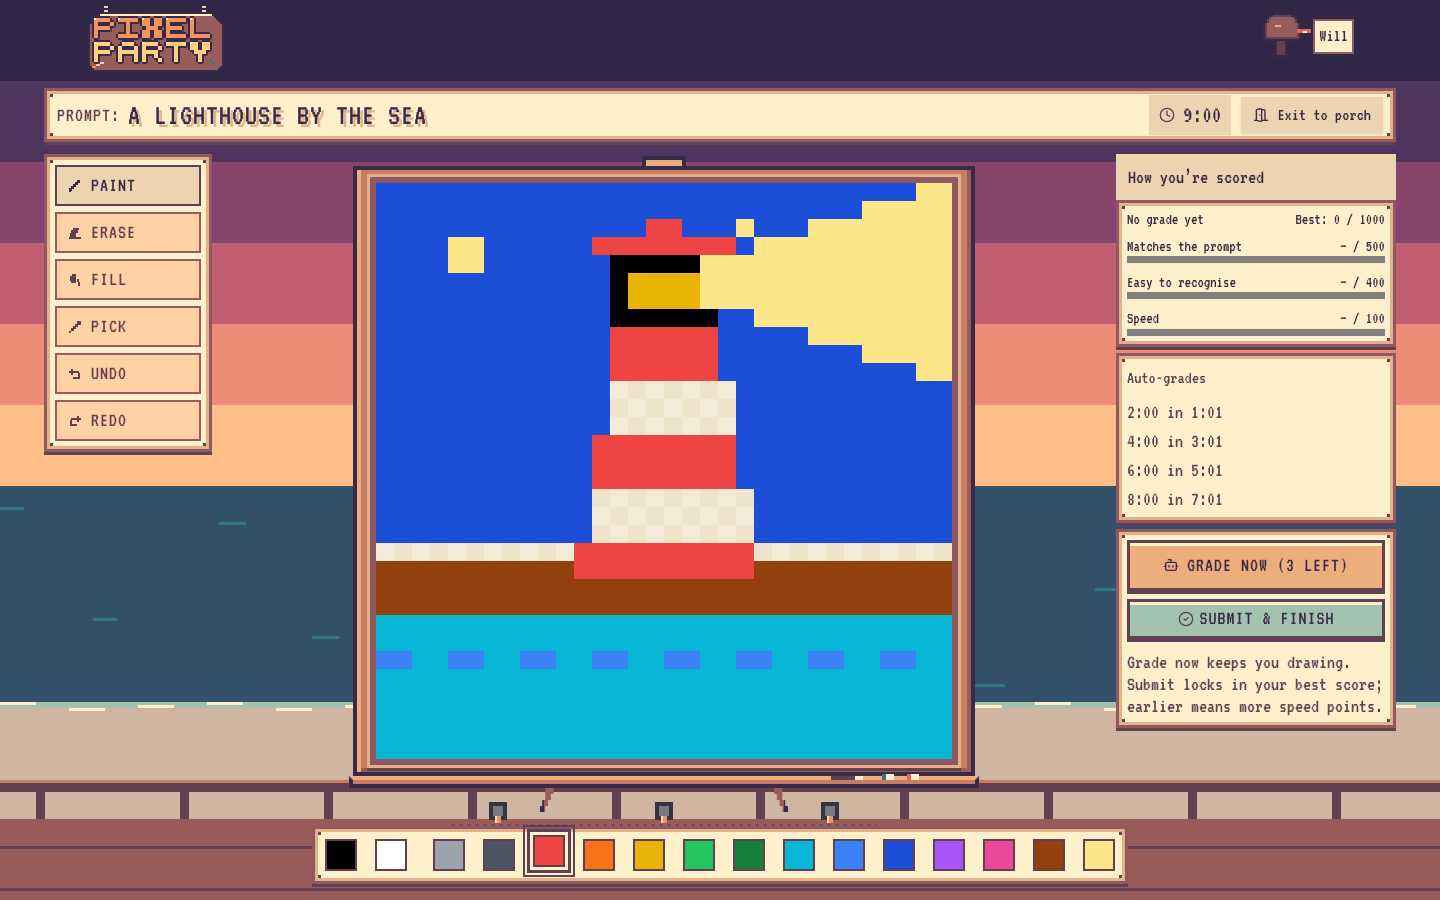
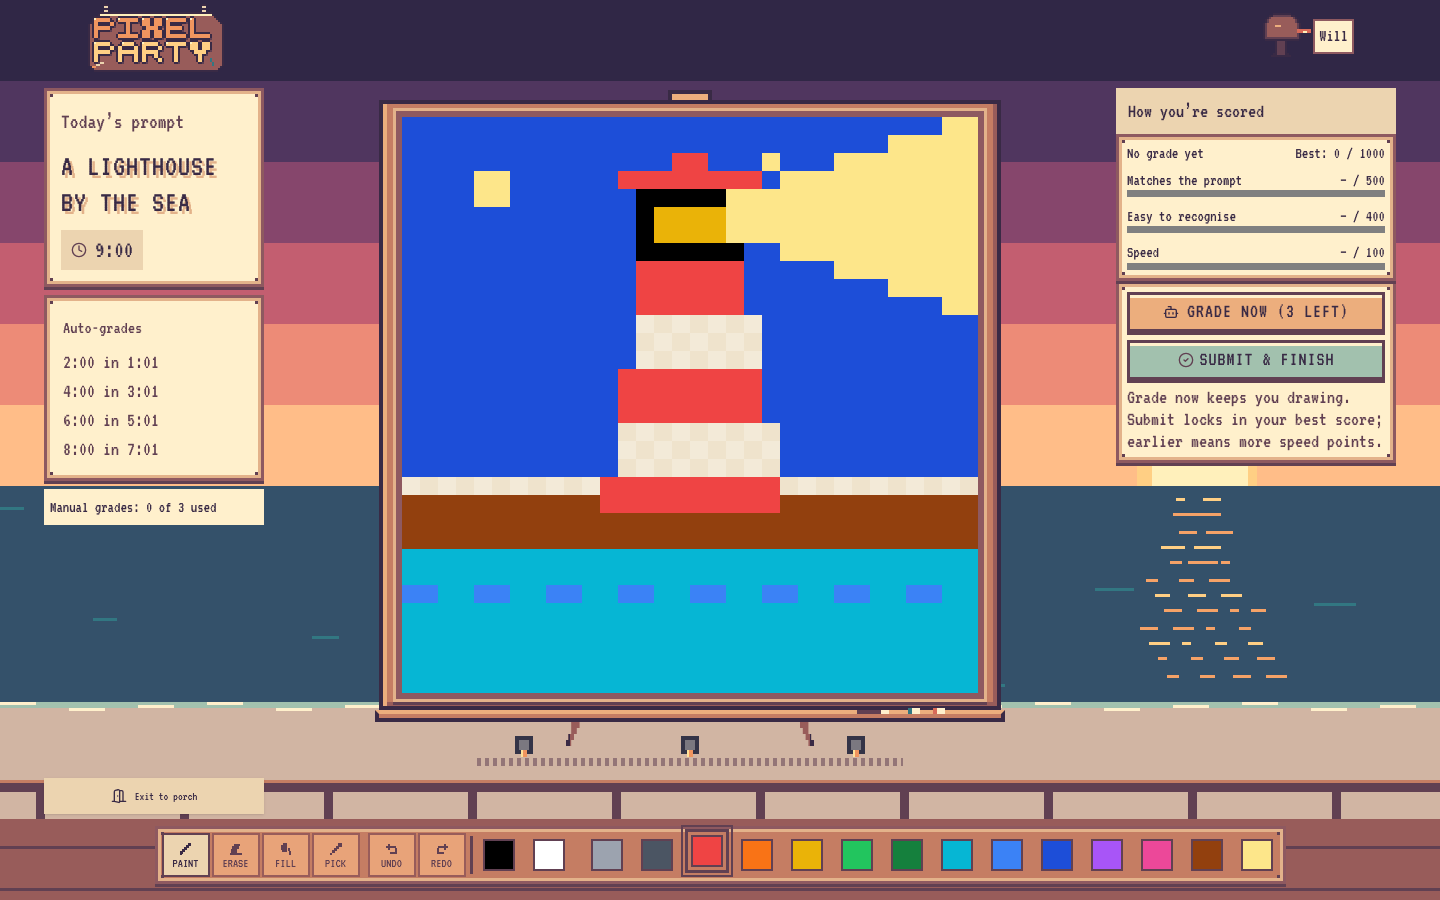
wip(play): share tray styles and capture layout

diff --git a/src/components/play/play.css b/src/components/play/play.css
@@ -20,15 +20,6 @@
 .play-layout__right .pp-panel p { line-height: 1.1; }
 .play-layout__right > summary { display: none; }
 .play-layout__bottom { position: relative; z-index: 2; grid-area: bottom; min-width: 0; }
-.painter-tray { display: flex; align-items: center; justify-content: center; width: fit-content; max-width: 100%; margin: auto; padding: 4px; background-color: #c57d63; }
-.painter-tray__divider { flex: none; width: 3px; height: 38px; margin: 0 4px; background: #614052; }
-.painter-tray [data-testid="toolbar"] { display: flex; flex-direction: row; align-items: center; gap: 2px; padding: 0; border: 0; box-shadow: none; background: transparent; }
-.painter-tray [data-testid="toolbar"] button { display: flex; flex-direction: column; justify-content: center; gap: 0; min-width: 48px; width: auto; min-height: 44px; padding: 2px; font-size: 13px; line-height: 1; letter-spacing: 0; }
-.painter-tray [data-testid="tool-undo"] { margin-left: 6px; }
-.play-layout__bottom [data-testid="palette"] button { width: 44px; height: 44px; padding: 6px; background: transparent !important; border: 0; }
-.play-layout__bottom [data-testid="palette"] button span[aria-hidden] { display: block; width: 100%; height: 100%; border: 2px solid #614052; background: var(--swatch); }
-.play-layout__bottom [data-testid="swatch-16"] { margin-right: 8px; }
-.painter-tray [data-testid="toolbar"] button:disabled { opacity: 1; color: #614052; }
 .play-actions { display: flex; flex-direction: column; gap: 8px; }
 .play-actions button { width: 100%; }
 .play-actions [data-testid="daily-done-button"] { background: #a2c1ae; }
@@ -58,10 +49,6 @@
   .play-layout__left { flex-direction: row; align-items: center; }
   .play-layout__left > [data-testid="daily-exit"] { margin-top: 0; }
   .play-prompt { flex: 1; }
-  .painter-tray { flex-direction: column; width: 100%; }
-  .painter-tray__divider { width: 90%; height: 2px; margin: 4px 0; }
-  .painter-tray [data-testid="toolbar"] { width: 100%; justify-content: center; }
-  .painter-tray [data-testid="toolbar"] button { flex: 1; min-width: 0; }
   .play-layout__mobile-actions { grid-area: actions; position: sticky; bottom: 0; z-index: 3; }
   .play-layout__mobile-actions .play-actions { flex-direction: row; }
   .play-layout__mobile-actions .play-actions button { flex: 1 1 0; min-width: 0; padding: 6px 4px; font-size: 14px; letter-spacing: 0; }

diff --git a/src/components/game/PainterTray.css b/src/components/game/PainterTray.css
@@ -1,0 +1,15 @@
+.painter-tray { display: flex; align-items: center; justify-content: center; width: fit-content; max-width: 100%; margin: auto; padding: 4px; background-color: #c57d63; }
+.painter-tray__divider { flex: none; width: 3px; height: 38px; margin: 0 4px; background: #614052; }
+.painter-tray [data-testid="toolbar"] { display: flex; flex-direction: row; align-items: center; gap: 2px; padding: 0; border: 0; box-shadow: none; background: transparent; }
+.painter-tray [data-testid="toolbar"] button { display: flex; flex-direction: column; justify-content: center; gap: 0; min-width: 48px; width: auto; min-height: 44px; padding: 2px; font-size: 13px; line-height: 1; letter-spacing: 0; }
+.painter-tray [data-testid="tool-undo"] { margin-left: 6px; }
+.painter-tray [data-testid="palette"] button { width: 44px; height: 44px; padding: 6px; background: transparent !important; border: 0; }
+.painter-tray [data-testid="palette"] button span[aria-hidden] { display: block; width: 100%; height: 100%; border: 2px solid #614052; background: var(--swatch); }
+.painter-tray [data-testid="swatch-16"] { margin-right: 8px; }
+.painter-tray [data-testid="toolbar"] button:disabled { opacity: 1; color: #614052; }
+@media (max-width: 767px) {
+  .painter-tray { flex-direction: column; width: 100%; }
+  .painter-tray__divider { width: 90%; height: 2px; margin: 4px 0; }
+  .painter-tray [data-testid="toolbar"] { width: 100%; justify-content: center; }
+  .painter-tray [data-testid="toolbar"] button { flex: 1; min-width: 0; }
+}

diff --git a/src/components/game/PainterTray.tsx b/src/components/game/PainterTray.tsx
@@ -1,4 +1,5 @@
 import type { ReactNode, Ref } from 'react'
+import './PainterTray.css'
 
 export function PainterTray({ tools, palette, trayRef }: { tools: ReactNode; palette: ReactNode; trayRef?: Ref<HTMLDivElement> }) {
   return <div ref={trayRef} data-testid="painter-tray" className="painter-tray pp-panel">{tools}<div className="painter-tray__divider" aria-hidden="true" />{palette}</div>
